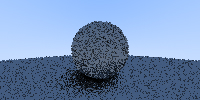
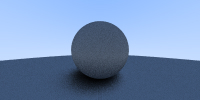
srand123

Changed region(s): [[0.0, 0.21, 1.0, 1.0]]

diff --git a/Ray-tracing-in-a-weekend/source.cpp b/Ray-tracing-in-a-weekend/source.cpp
@@ -29,10 +29,10 @@ vec3 color(const ray& r,hitable *world) {
 }
 
 int main() {
-	srand(0);
+	srand(123);
 	int x = 200;
 	int y = 100;
-	int s = 1;
+	int s = 100;
 	hitable *list[2];
 	list[0] = new sphere(vec3(0, 0, -1), 0.5f);
 	list[1] = new sphere(vec3(0, -100.5f, -1), 100);
